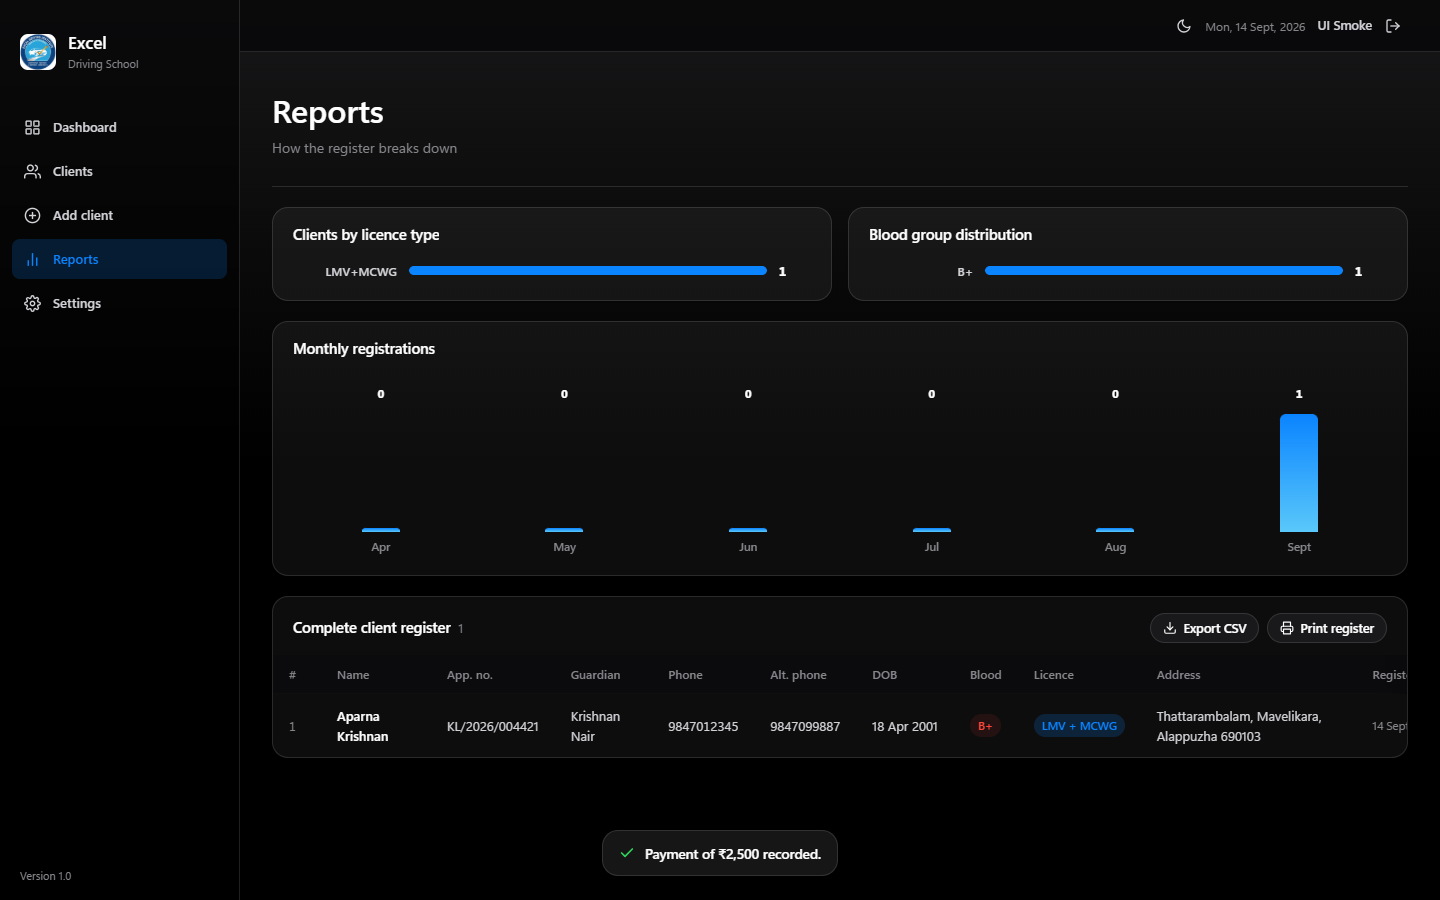
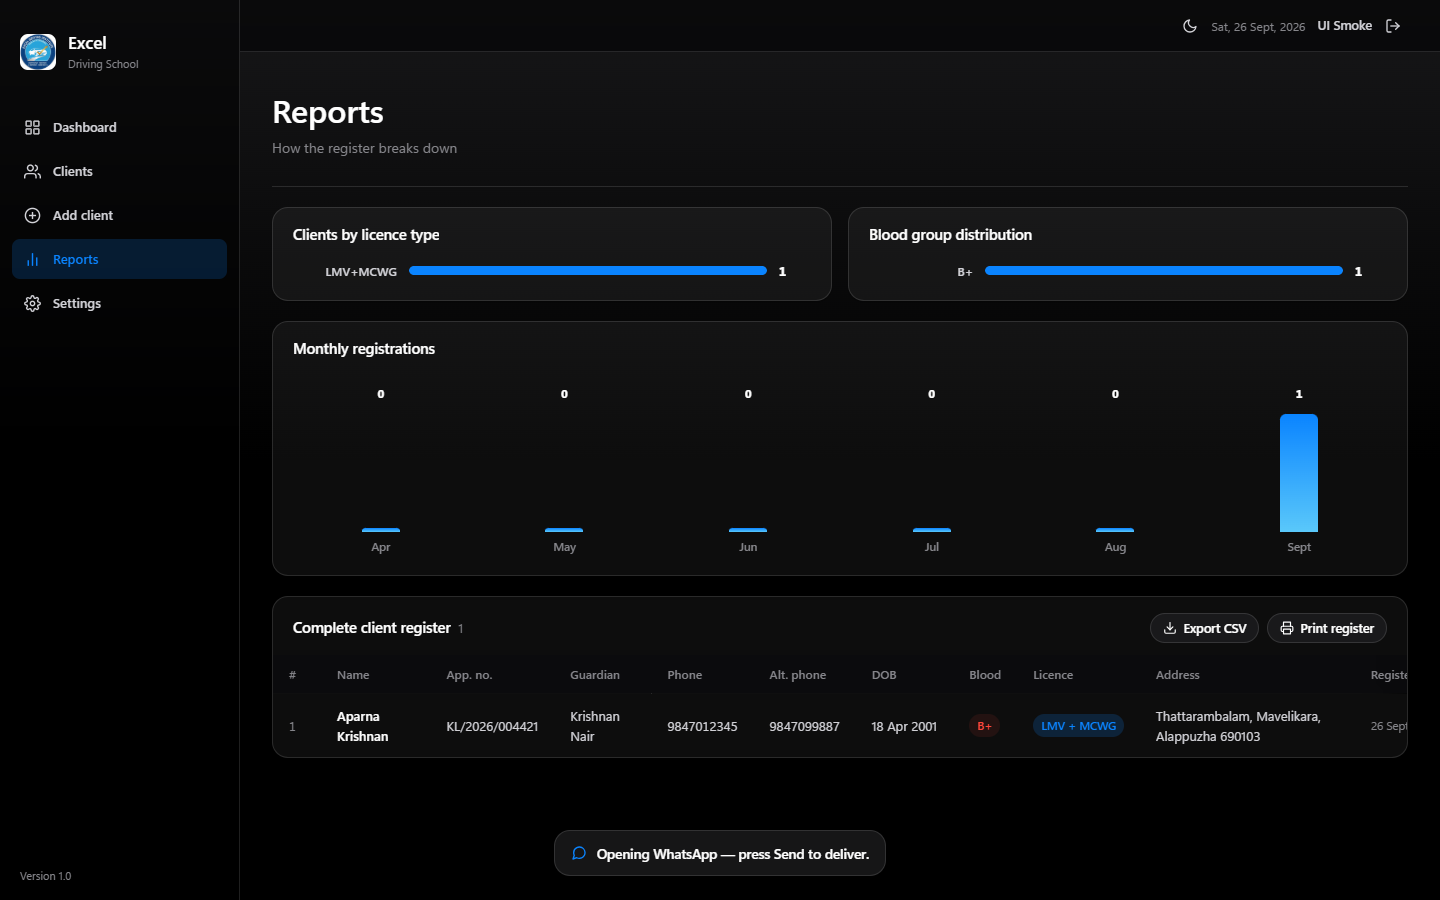
watsapp fixed

diff --git a/web/src/lib/whatsapp.ts b/web/src/lib/whatsapp.ts
@@ -1,6 +1,12 @@
 import { formatLongDate, formatMoney } from './format';
 import type { Client } from './types';
 
+const WA_PENDING_PATH = '/wa-pending.html';
+const WA_MESSAGE_TYPE = 'excel-wa-deliver';
+const WA_CHANNEL_NAME = 'excel-wa-deliver';
+const WA_DELIVER_MS = 500;
+const WA_DELIVER_ATTEMPTS = 40;
+
 /**
  * WhatsApp needs an international number. Indian numbers are stored locally, so a
  * bare 10-digit number gets the country code and a leading trunk `0` is dropped.
@@ -19,18 +25,64 @@ export function buildWhatsAppUrl(phone: string, message: string): string | null 
 }
 
 /**
- * Must be called synchronously inside the click handler. Opening the tab after an
- * `await` is what popup blockers kill, so the tab is reserved first and pointed at
- * WhatsApp once the save completes.
+ * Reserved synchronously inside the click handler before any network work. A same-origin
+ * pending page receives the final wa.me link through postMessage once the save finishes —
+ * navigating an about:blank tab from the opener after an await is blocked in Chrome.
  */
 export function reserveWhatsAppTab(): Window | null {
-  return window.open('', '_blank', 'noopener');
+  return window.open(WA_PENDING_PATH, '_blank');
 }
 
 export interface WhatsAppResult {
   ok: boolean;
   error?: string;
   url?: string;
+}
+
+function broadcastDeliver(url: string) {
+  if (typeof BroadcastChannel === 'undefined') return null;
+
+  const channel = new BroadcastChannel(WA_CHANNEL_NAME);
+  let attempts = 0;
+
+  const send = () => {
+    channel.postMessage({ url });
+    attempts += 1;
+    if (attempts >= WA_DELIVER_ATTEMPTS) {
+      window.clearInterval(timer);
+      channel.close();
+    }
+  };
+
+  send();
+  const timer = window.setInterval(send, WA_DELIVER_MS);
+  return timer;
+}
+
+function postDeliverMessage(tab: Window, url: string) {
+  const payload = { type: WA_MESSAGE_TYPE, url };
+  tab.postMessage(payload, window.location.origin);
+}
+
+/**
+ * Open WhatsApp immediately — use when the URL is known inside the same click handler
+ * (practice reminders). Popup blockers allow this because it is still user-initiated.
+ */
+export function openWhatsAppDirect(phone: string, message: string): WhatsAppResult {
+  const url = buildWhatsAppUrl(phone, message);
+  if (!url) return { ok: false, error: 'Client phone number looks invalid.' };
+
+  const tab = window.open(url, '_blank');
+  if (tab) {
+    tab.opener = null;
+    return { ok: true, url };
+  }
+
+  return {
+    ok: false,
+    error: 'Your browser blocked the WhatsApp tab. Allow pop-ups for this site.',
+    url,
+  };
 }
 
 export function deliverWhatsApp(
@@ -45,16 +97,14 @@ export function deliverWhatsApp(
     return { ok: false, error: 'Client phone number looks invalid.' };
   }
 
-  if (!tab || tab.closed) {
-    return {
-      ok: false,
-      error: 'Your browser blocked the WhatsApp tab. Allow pop-ups for this site.',
-      url,
-    };
+  if (tab && !tab.closed) {
+    broadcastDeliver(url);
+    postDeliverMessage(tab, url);
+    tab.focus();
+    return { ok: true, url };
   }
 
-  tab.location.href = url;
-  return { ok: true, url };
+  return openWhatsAppDirect(phone, message);
 }
 
 export function registrationMessage(client: Pick<Client, 'name'>): string {

diff --git a/scripts/ui-smoke-test.js b/scripts/ui-smoke-test.js
@@ -140,6 +140,25 @@ async function textOf(page, selector) {
   return page.$eval(selector, (element) => element.textContent?.trim() ?? '');
 }
 
+/** puppeteer-core here predates page.waitForEvent('popup'). */
+function waitForPopup(browser) {
+  return new Promise((resolve) => {
+    browser.once('targetcreated', async (target) => {
+      if (target.type() !== 'page') return;
+      const popup = await target.page();
+      if (popup) resolve(popup);
+    });
+  });
+}
+
+async function waitForWhatsAppUrl(popup, timeoutMs = 15000) {
+  await popup.waitForFunction(
+    () => /wa\.me|api\.whatsapp\.com/.test(window.location.href),
+    { timeout: timeoutMs }
+  );
+  return popup.url();
+}
+
 /**
  * Date inputs expect a localised format when typed, so set the value directly.
  * React listens to the native setter, hence the descriptor dance.
@@ -299,10 +318,14 @@ async function main() {
     await page.type('#pay-amount', '2500');
     await chooseOption(page, '#pay-method', 'UPI');
     await page.type('#pay-note', 'First instalment');
-    // Unchecked so the test does not try to open a WhatsApp tab.
-    await page.click('#pay-whatsapp');
     await shoot(page, 'add-payment');
+
+    const paymentPopupPromise = waitForPopup(browser);
     await page.click('button::-p-text(Save payment)');
+    const paymentPopup = await paymentPopupPromise;
+    const paymentWaUrl = await waitForWhatsAppUrl(paymentPopup);
+    check('payment receipt opens WhatsApp', /wa\.me|api\.whatsapp\.com/.test(paymentWaUrl));
+    await paymentPopup.close();
 
     await page.waitForFunction(
       () => document.querySelector('[role="dialog"]')?.textContent?.includes('₹2,500') ?? false,
@@ -319,9 +342,18 @@ async function main() {
     const preview = await textOf(page, '#practice-form');
     check('the reminder preview mentions the client', preview.includes('Aparna Krishnan'));
     check('the preview shows a 12-hour time', /9:00 AM/.test(preview), preview.slice(0, 160));
-    await page.click('#practice-whatsapp');
     await shoot(page, 'practice-reminder');
-    await page.keyboard.press('Escape');
+
+    const tomorrow = new Date();
+    tomorrow.setDate(tomorrow.getDate() + 1);
+    await setValue(page, '#practice-date', tomorrow.toISOString().slice(0, 10));
+
+    const practicePopupPromise = waitForPopup(browser);
+    await page.click('button::-p-text(Send reminder)');
+    const practicePopup = await practicePopupPromise;
+    const practiceWaUrl = await waitForWhatsAppUrl(practicePopup);
+    check('practice reminder opens WhatsApp', /wa\.me|api\.whatsapp\.com/.test(practiceWaUrl));
+    await practicePopup.close();
     await page.waitForSelector('#practice-date', { hidden: true });
 
     await page.keyboard.press('Escape');

diff --git a/web/src/components/clients/PracticeSheet.tsx b/web/src/components/clients/PracticeSheet.tsx
@@ -9,7 +9,7 @@ import { Sheet } from '@/components/ui/Sheet';
 import { useToast } from '@/components/ui/Toast';
 import { formatLongDate, formatTime12, practiceDateTime, todayYmd } from '@/lib/format';
 import type { Client } from '@/lib/types';
-import { deliverWhatsApp, practiceMessage, reserveWhatsAppTab } from '@/lib/whatsapp';
+import { openWhatsAppDirect, practiceMessage } from '@/lib/whatsapp';
 
 const HOURS = Array.from({ length: 12 }, (_, index) => {
   const value = String(index + 1);
@@ -83,8 +83,10 @@ export function PracticeSheet({ client, onClose }: PracticeSheetProps) {
       return;
     }
 
-    const tab = reserveWhatsAppTab();
-    const result = deliverWhatsApp(tab, client.phone, practiceMessage(client, date, time12));
+    const result = openWhatsAppDirect(
+      client.phone,
+      practiceMessage(client, date, time12)
+    );
     if (result.ok) toast('Opening WhatsApp — press Send to deliver.', 'info');
     else toast(result.error ?? 'Could not open WhatsApp.', 'error');
     onClose();

diff --git a/web/public/wa-pending.js b/web/public/wa-pending.js
@@ -1,0 +1,28 @@
+const status = document.getElementById('status');
+const fallback = document.getElementById('fallback');
+const link = document.getElementById('link');
+const channelName = 'excel-wa-deliver';
+
+function go(url) {
+  link.href = url;
+  window.location.replace(url);
+}
+
+if (typeof BroadcastChannel !== 'undefined') {
+  const channel = new BroadcastChannel(channelName);
+  channel.onmessage = (event) => {
+    if (event.data?.url) go(event.data.url);
+  };
+}
+
+window.addEventListener('message', (event) => {
+  if (event.origin !== window.location.origin) return;
+  const data = event.data;
+  if (!data || data.type !== 'excel-wa-deliver' || !data.url) return;
+  go(data.url);
+});
+
+window.setTimeout(() => {
+  status.textContent = 'Taking longer than expected…';
+  fallback.hidden = false;
+}, 8000);

diff --git a/web/public/wa-pending.html b/web/public/wa-pending.html
@@ -1,0 +1,19 @@
+<!DOCTYPE html>
+<html lang="en">
+  <head>
+    <meta charset="UTF-8" />
+    <title>Opening WhatsApp…</title>
+    <meta name="viewport" content="width=device-width, initial-scale=1" />
+    <link rel="stylesheet" href="/wa-pending.css" />
+  </head>
+  <body>
+    <div>
+      <p id="status">Opening WhatsApp…</p>
+      <p id="fallback" hidden>
+        If nothing happens,
+        <a id="link" href="#" rel="noopener noreferrer">open WhatsApp manually</a>.
+      </p>
+    </div>
+    <script src="/wa-pending.js"></script>
+  </body>
+</html>

diff --git a/web/public/wa-pending.css b/web/public/wa-pending.css
@@ -1,0 +1,20 @@
+body {
+  font-family: -apple-system, BlinkMacSystemFont, 'Segoe UI', system-ui, sans-serif;
+  background: #000;
+  color: #f5f5f7;
+  display: flex;
+  align-items: center;
+  justify-content: center;
+  min-height: 100vh;
+  margin: 0;
+  text-align: center;
+  padding: 2rem;
+}
+
+a {
+  color: #0a84ff;
+}
+
+p {
+  margin: 0.5rem 0;
+}
